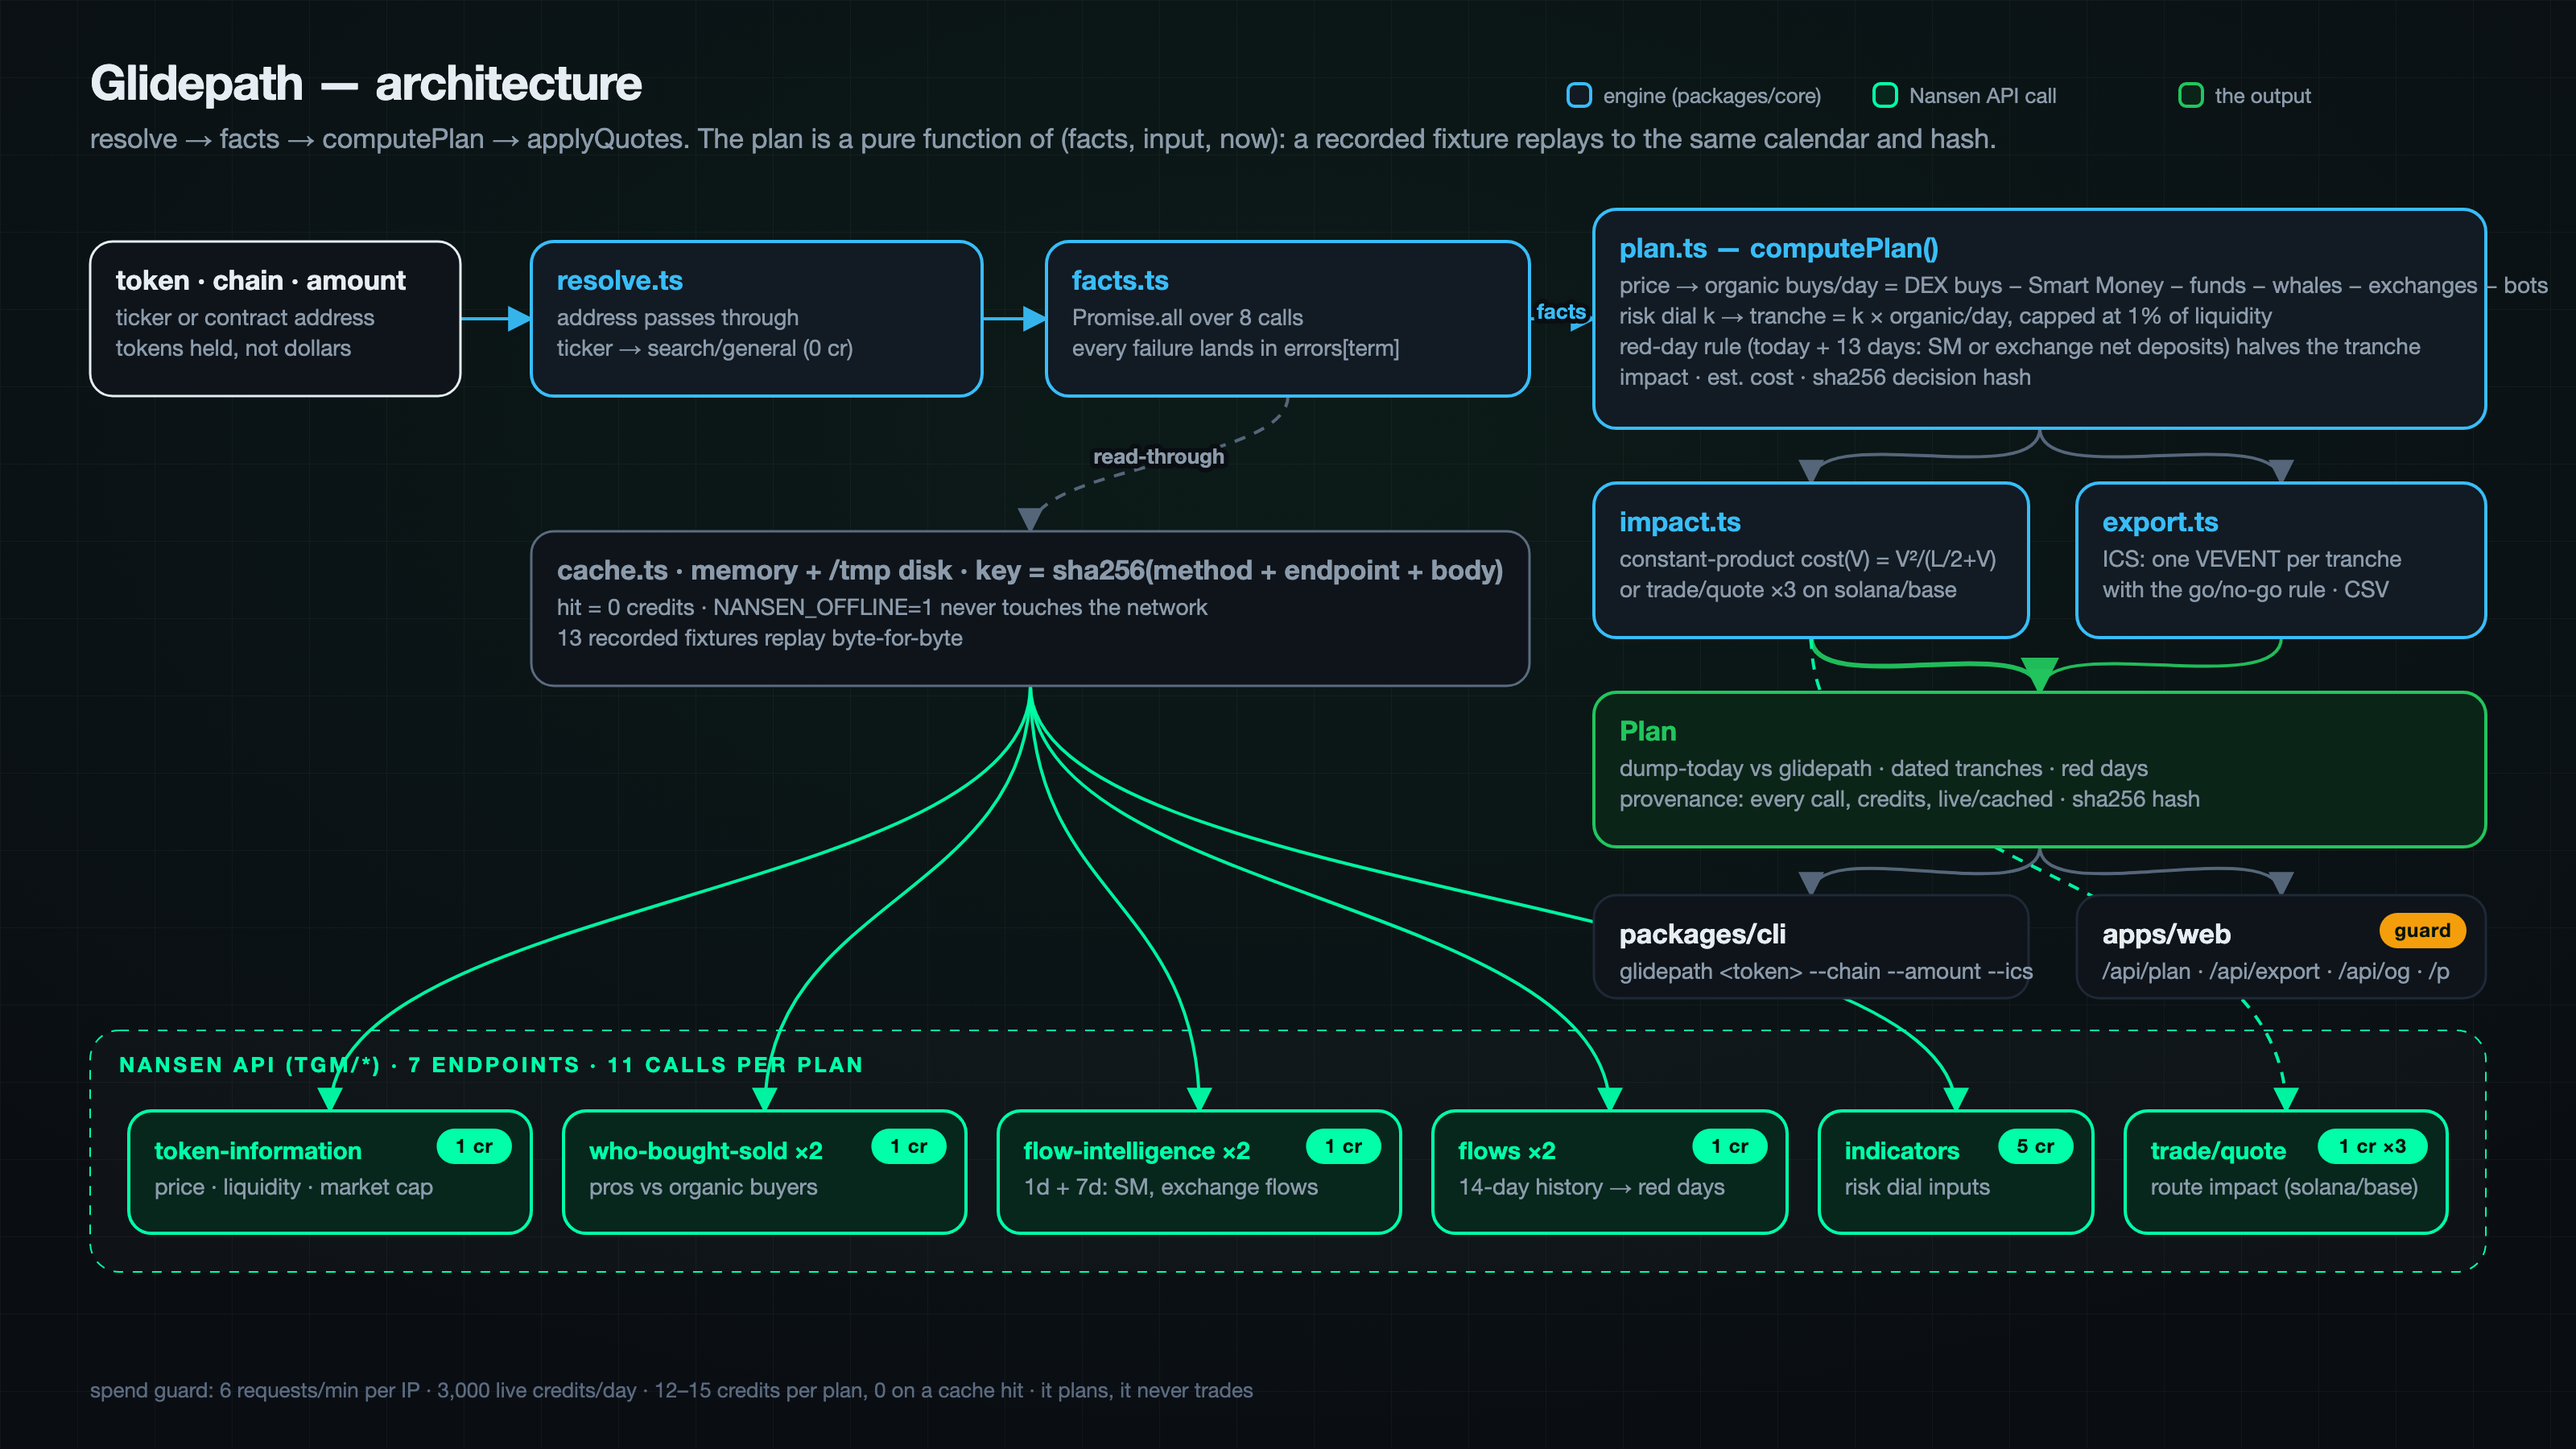
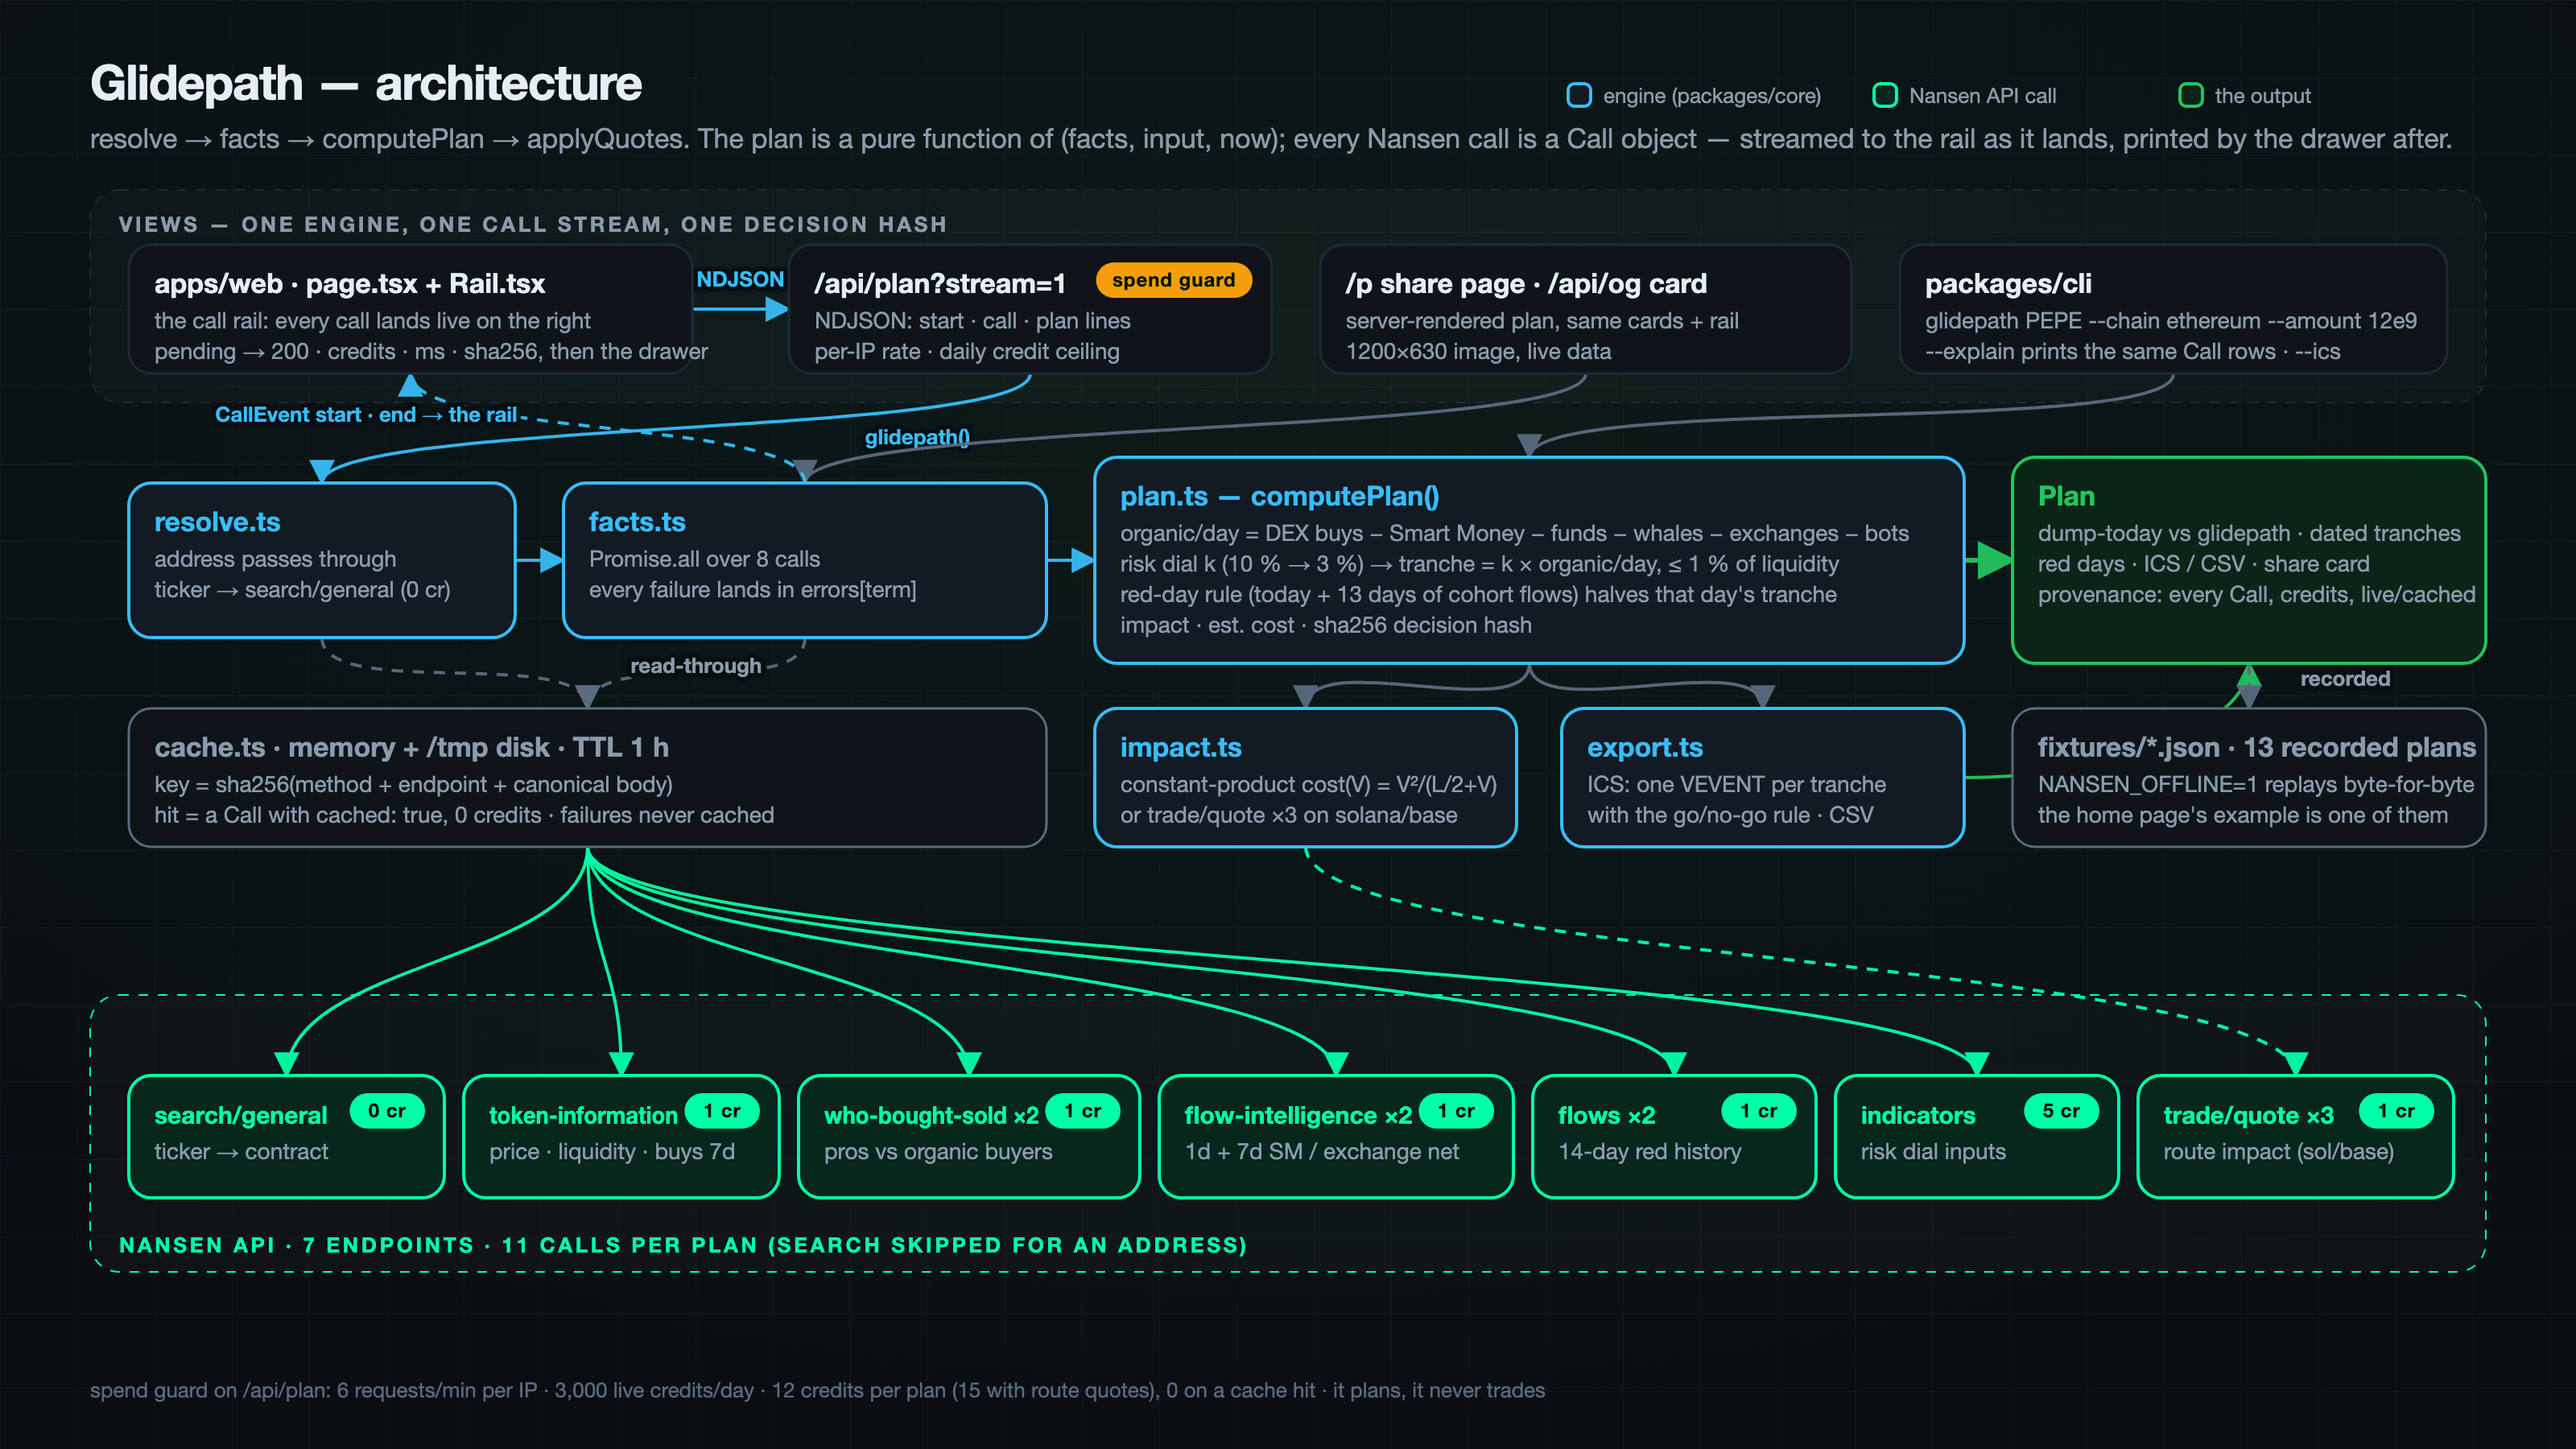
docs(readme): architecture png re-rendered with the views row and the call stream (HTML → 2× PNG); mermaid + ARCHITECTURE.md carry the rail

diff --git a/ARCHITECTURE.md b/ARCHITECTURE.md
@@ -6,7 +6,7 @@
                        └──────────────────────────────────────────────────────────────┬──────────────────────────────────────────────────┘
                                                                                       │ raw text, sha256'd, credits from response headers
   packages/core/src                                                                   ▼
-  ├─ client.ts       NansenClient: token bucket (8 rps) · timeout · 1 retry on 429/5xx/timeout (honours Retry-After) · Call log
+  ├─ client.ts       NansenClient: token bucket (8 rps) · timeout · 1 retry on 429/5xx/timeout (honours Retry-After) · Call log · onCall observer (CallEvent start/end)
   ├─ cache.ts        CachedNansenClient: read-through cache keyed by (method, endpoint, canonical body); hit = 0 credits; NANSEN_OFFLINE=1 never touches the network
   ├─ nansen.ts       typed request bodies (verified against openapi.json) · EXCLUDED_LABELS · whoBoughtPaged (per_page 1000, cap) · flows · indicators · quote
   ├─ resolve.ts      address passes through; ticker → search/general (0 credits), exact symbol/name on the chain, lowest rank
@@ -20,11 +20,12 @@
   packages/cli/src/cli.ts        npm run glidepath -- <token> --chain <chain> --amount <n> [--json --explain --csv f --ics f --no-cache --no-quotes]
 
   apps/web (Next.js 15, App Router, plain CSS)
-  ├─ app/page.tsx                three inputs → POST /api/plan → <PlanView>
-  ├─ app/api/plan/route.ts       server-side key; CachedNansenClient with memory + disk (/tmp on Vercel) cache, 1 h TTL
+  ├─ app/page.tsx                three inputs → POST /api/plan?stream=1 → <Glidepath> (cards, drawer) + <Rail> (the live call log on the right)
+  ├─ app/api/plan/route.ts       server-side key; CachedNansenClient with memory + disk (/tmp on Vercel) cache, 1 h TTL; ?stream=1 = NDJSON start · call · plan lines
   ├─ app/api/export/route.ts     ?format=ics|csv, served from the same cache so the file matches the screen
   ├─ app/p/page.tsx              share page (?chain&token&amount) with OG/Twitter meta → /api/og (1200×630 card)
-  └─ components/PlanView.tsx     dump line · facts · 14-day red/green strip + live today · tranche bars · cost line · exports · provenance drawer · "computed Ns ago"
+  ├─ components/Glidepath.tsx    dump line · facts · 14-day red/green strip + live today · tranche bars · cost line · exports · provenance drawer · "computed Ns ago"
+  └─ components/Rail.tsx         the Nansen call rail: one row per CallEvent (pending → live/cached/error), credits · ms · sha256; replayed example on load; session totals
 
   scripts/  spike.ts (day-one pagination + filter spike) · seed.ts · verify.ts · bench.ts · check_submission_readiness.ts
 ```
@@ -35,6 +36,7 @@
 3. **Plan** — pure function of `(facts, input, now)`. Every branch that lacks data adds a warning naming the endpoint; the status is one of `ok · thin · no-organic-demand · no-price · not-found`.
 4. **Quotes** — solana/base only, after the tranche size is known: three `GET trade/quote` calls; any failure keeps the constant-product number and says so.
 5. **Hash** — sha256 over the decision only; the CLI, the web app and `verify.ts` show the first 12 hex chars.
+6. **Stream** — the web route attaches an `onCall` observer to the client; each `start` event (a call leaving) and `end` event (the recorded `Call`) is written as one NDJSON line while the plan is still computing, so the page's call rail shows the truth as it arrives. The drawer prints `plan.provenance` afterwards — the same objects — so the two can never disagree.
 
 ## Caching and the recording
 Cache key = sha256(method + endpoint + canonical JSON body). The who-bought-sold and flows windows are floored to the hour, so a token re-planned within the hour is a full cache hit (0 credits, ≈ 2–5 ms). A hit is still a `Call` in provenance (`cached: true`, 0 credits) and the oldest hit's timestamp drives the "computed Ns ago" badge. Failures are never cached. The web deployment uses a per-instance memory cache plus `/tmp` disk, so a warm Vercel function stays warm.

diff --git a/README.md b/README.md
@@ -71,7 +71,7 @@ It plans. It never trades.
 
 One plan is `resolve → facts → computePlan → applyQuotes`; the plan is a pure function of `(facts, input, now)`, so a recorded fixture replays to the same calendar dates, the same red history and the same decision hash. Full module map and data flow: [ARCHITECTURE.md](ARCHITECTURE.md).
 
-<p align="center"><img src="docs/assets/architecture.png" alt="Glidepath architecture — token · chain · amount → resolve → facts → plan.ts computePlan → impact/export → Plan; cache in front of seven Nansen endpoints" width="100%"></p>
+<p align="center"><img src="docs/assets/architecture.png" alt="Glidepath architecture — views (web page with the live call rail, /api/plan?stream=1 behind a spend guard, share page, CLI) → resolve → facts → plan.ts computePlan → impact/export → Plan; a read-through cache in front of seven Nansen endpoints with their credits; recorded fixtures replay offline" width="100%"></p>
 
 <details>
 <summary><b>Mermaid source</b> — expand to see the diagram as text (renders on GitHub)</summary>
@@ -87,7 +87,8 @@ flowchart LR
   Q <--> N
   P --> X["export.ts<br/>ICS (one VEVENT per tranche, go/no-go rule inside) · CSV"]
   P --> CLI["packages/cli<br/>npm run glidepath -- &lt;token&gt; --chain --amount"]
-  P --> WEB["apps/web (Next.js 15)<br/>/api/plan · /api/export · /api/og · /p share page"]
+  P --> WEB["apps/web (Next.js 15)<br/>/api/plan?stream=1 → the call rail · /api/export · /api/og · /p share page"]
+  N -. "CallEvent start · end (the same Call objects)" .-> WEB
 ```
 
 </details>
